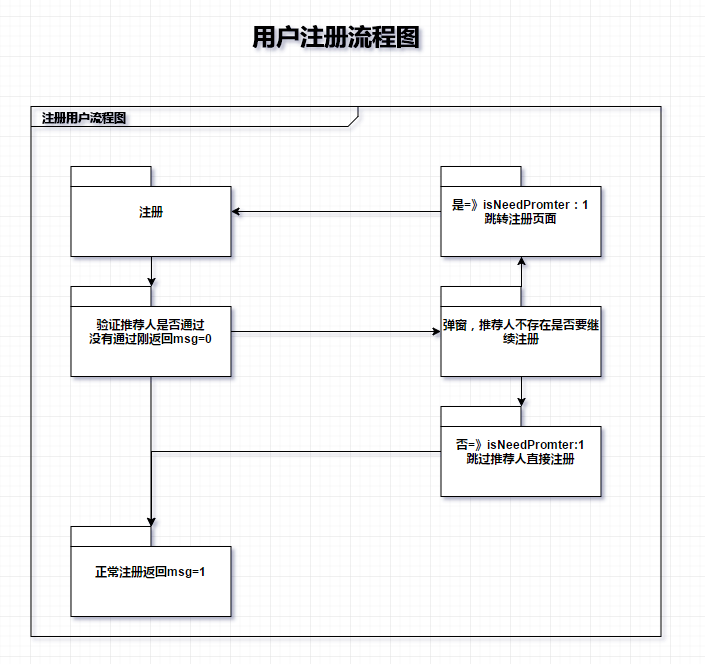
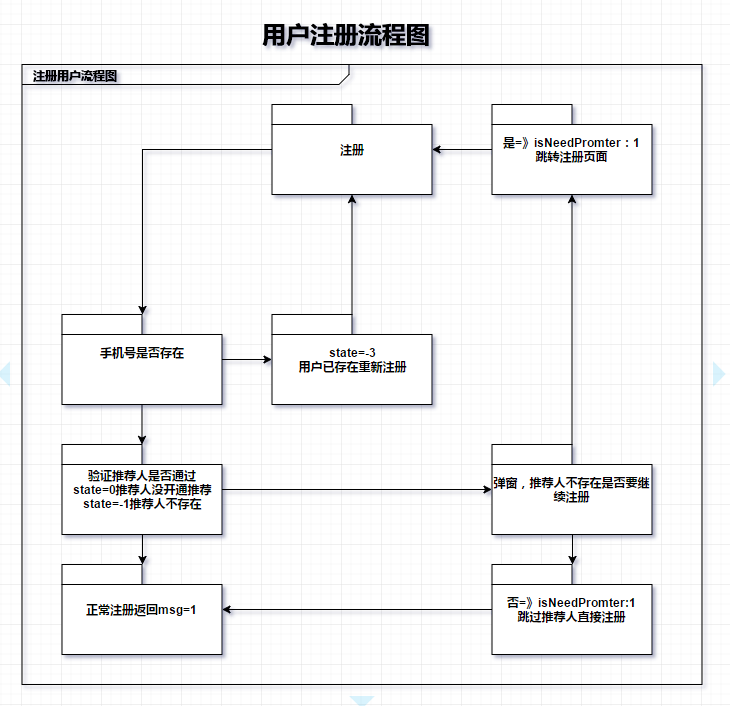
gogogo

diff --git a/推荐注册用户接口.md b/推荐注册用户接口.md
@@ -1,11 +1,16 @@
 ### POST /api/join.aspx
 
 ```
-tel:用户名
-password:密码
-isNeedpromoter:1=>需要，0不需要 默认需要
-promoterTel:推荐人手机号
-
+Tel:用户名
+Password:密码
+IsNeedpromoter:1=>需要，0不需要 默认需要
+PromoterTel:推荐人手机号
 ```
+返回信息
+
+state:-3=>用户已存在;
+state:-1=>推荐人不存在; 
+state:0=>推荐人没有开能推荐功能;
+state:1=>成功
 
 ![](https://github.com/lsfoo/cjsh/blob/master/images/%E6%96%B0%E7%94%A8%E6%88%B7%E6%B3%A8%E5%86%8C%E6%B5%81%E7%A8%8B%E5%9B%BE.png)
